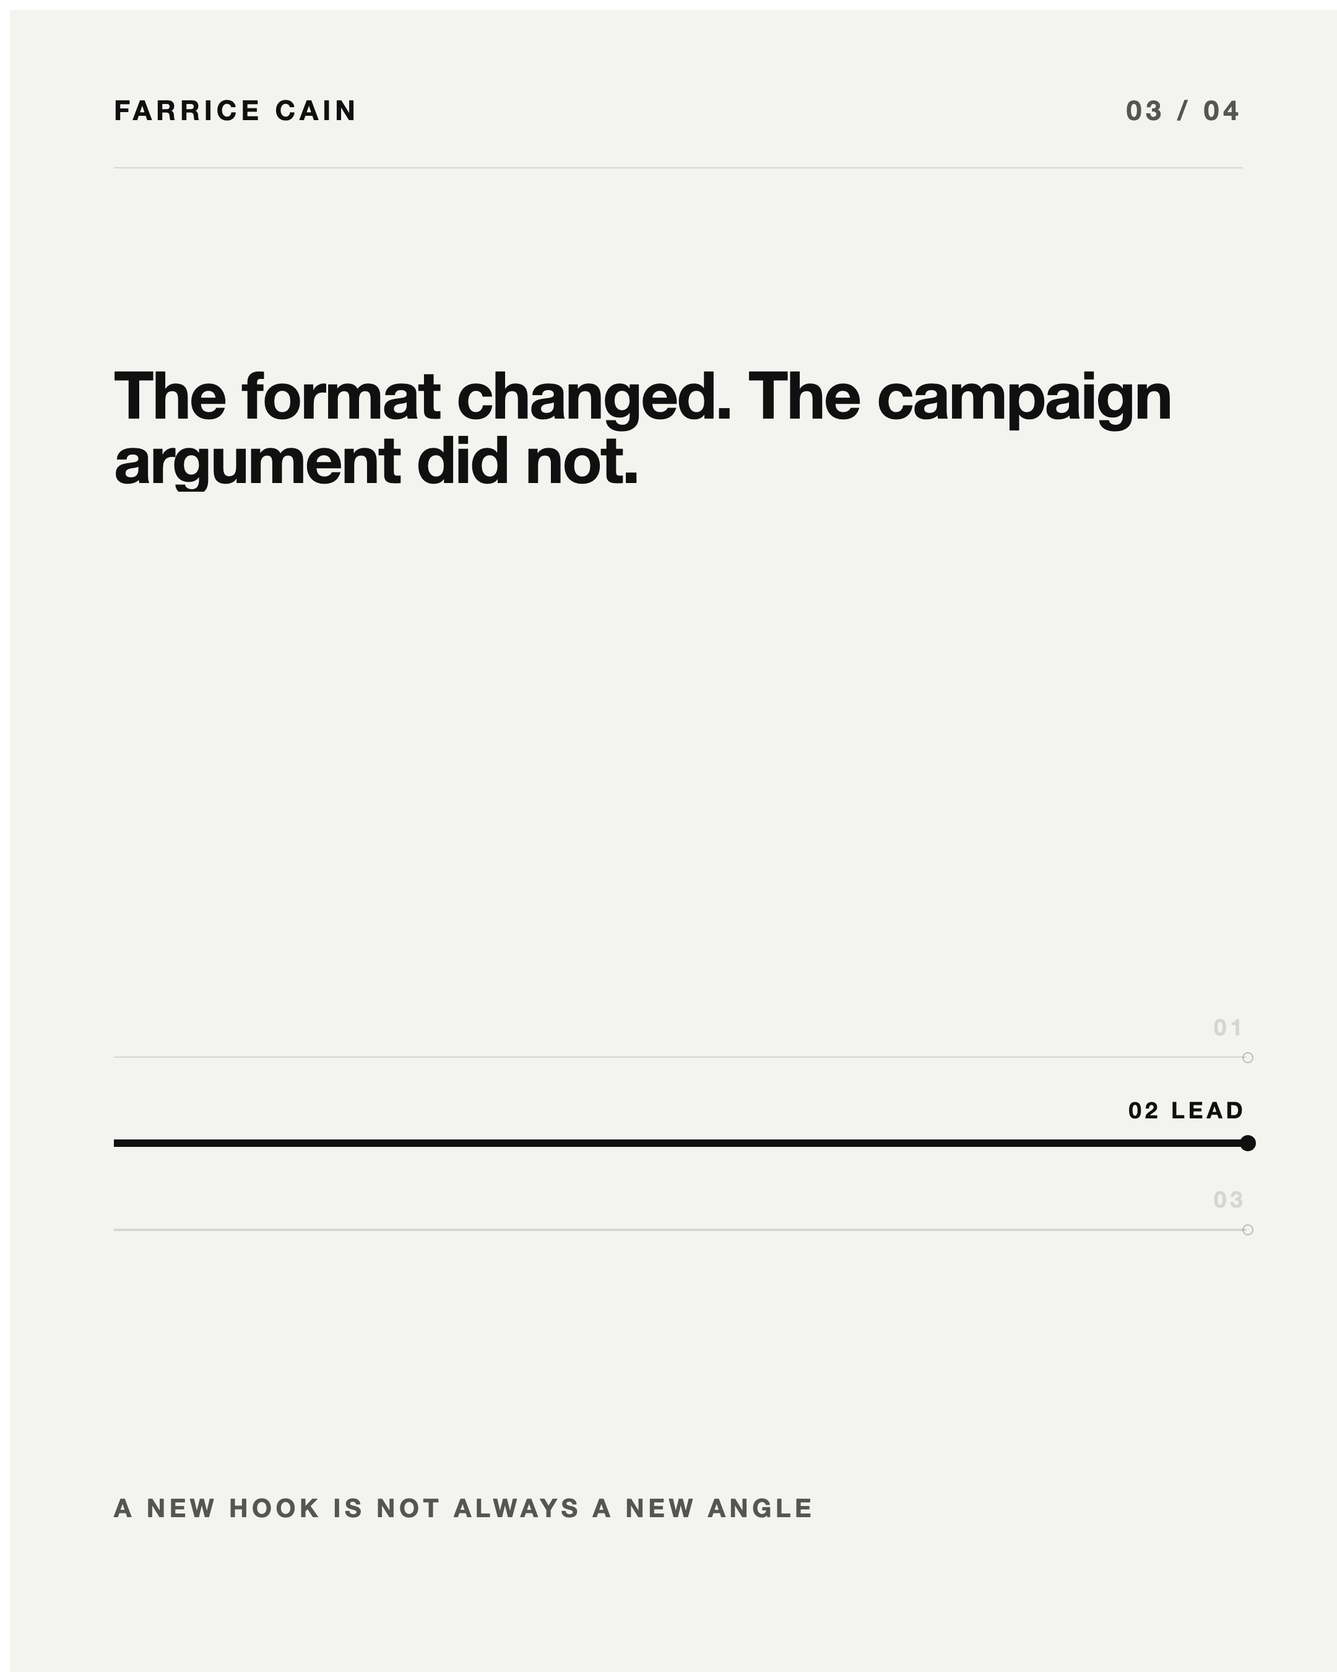
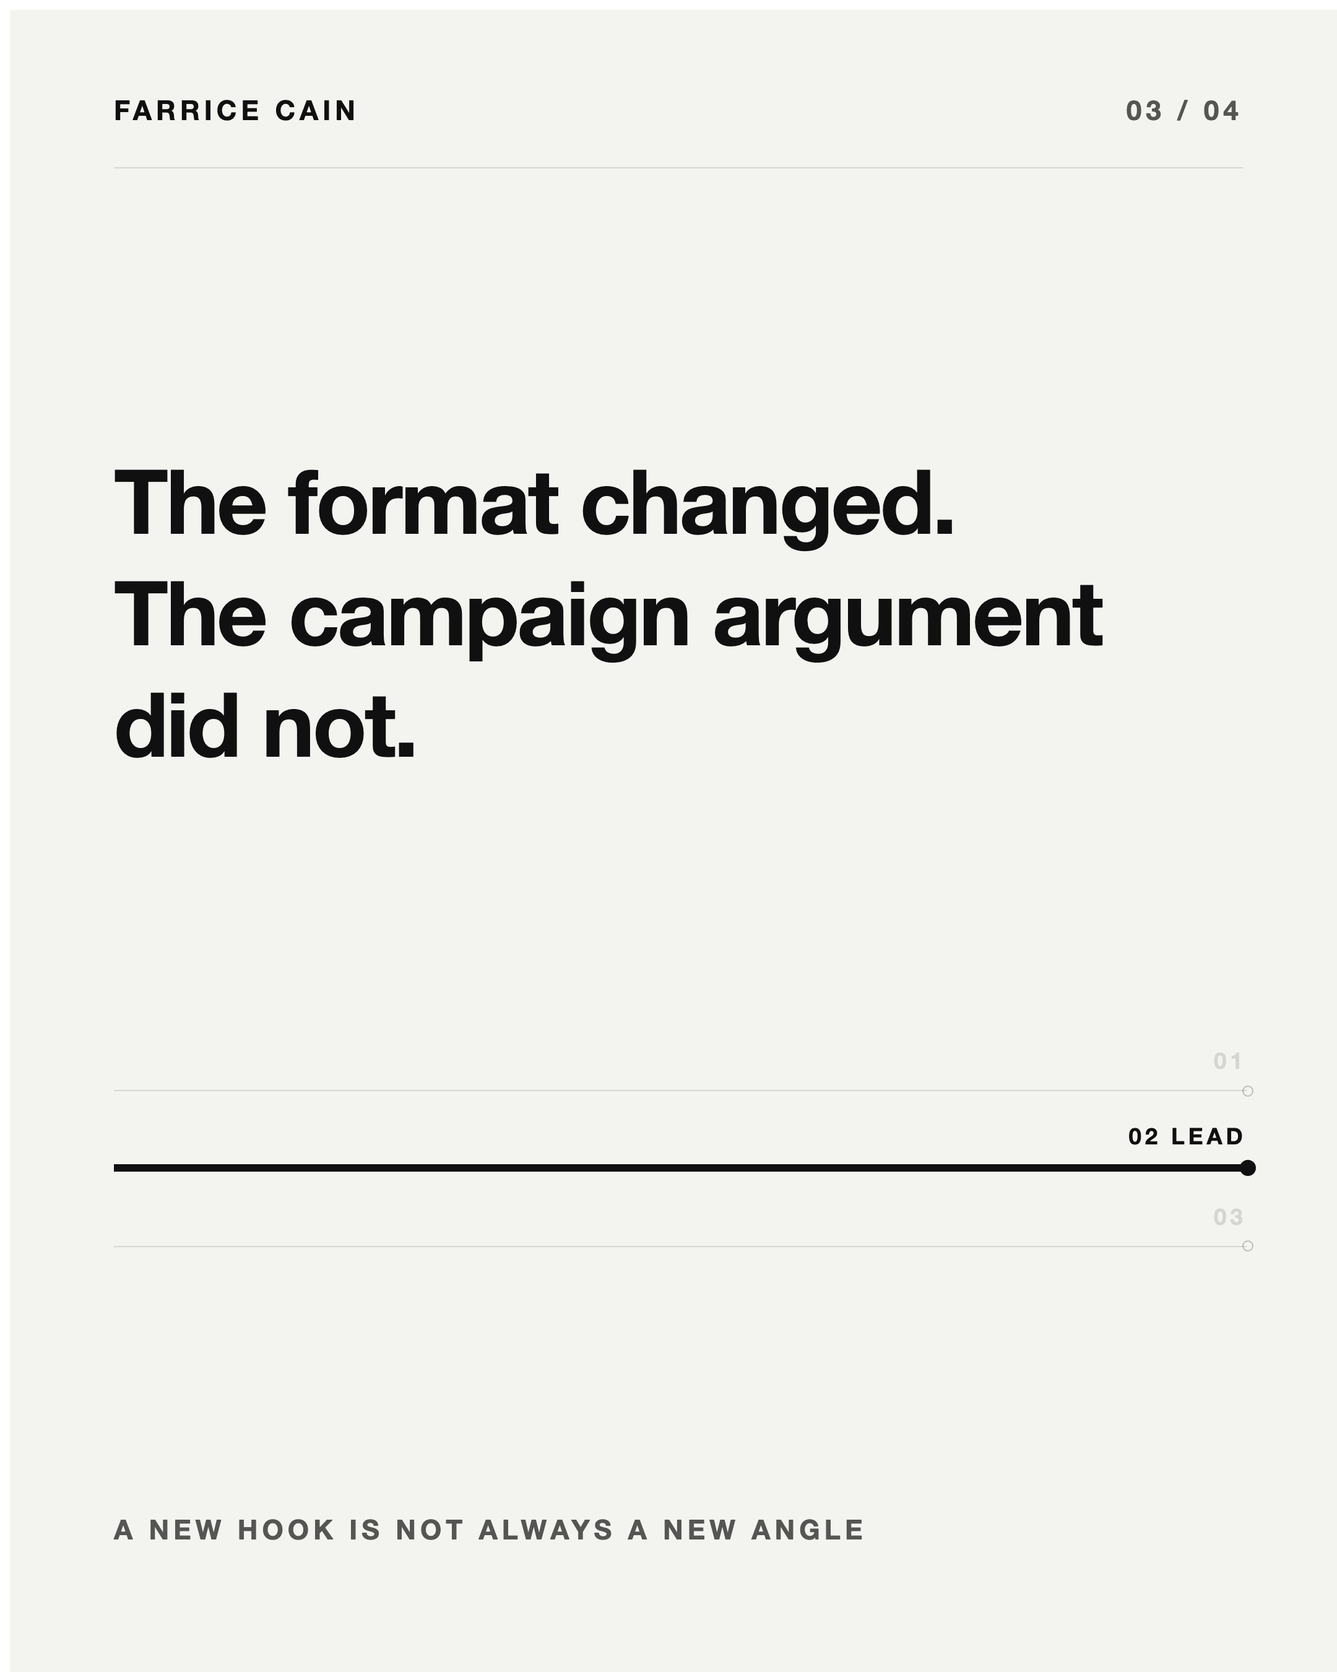
craft(templates): linkedin-carousel pool back to the brand h1 (72px) and ref rhythm per Farrice's Studio pass; REVIEW-NOTES; <br> rule in /social-carousel; learnings

Changed region(s): [[0.0931, 0.2178, 0.8995, 0.4667], [0.0931, 0.6222, 0.9616, 0.7467], [0.0931, 0.8711, 0.6514, 0.9333]]

diff --git a/brand_context/templates/linkedin-carousel/headline-subline-cover/template.html b/brand_context/templates/linkedin-carousel/headline-subline-cover/template.html
@@ -68,31 +68,34 @@
          zero once the ring can no longer reach it). Starting the zone at 29% (with a correspondingly
          empty band from ~11% to 29%) is the fix, not a composition choice — see rationale.md and the
          ladder note in instructions.md. -->
+    <!-- CRAFT PASS 2026-09-03 (Farrice: "tighten typography, spacing, hierarchy"): headline returned to
+         the brand's h1 (72px = 6.67cqw, the ref's own size), natural 2-3 line wrap, ref vertical rhythm
+         restored (subtitle 51%, heavy rule 85%, caption 90%). See ../REVIEW-NOTES.md. -->
     <div class="zone display" data-slot="HEADLINE" data-role="display"
-         style="left:7.78%; top:29%; width:84.44%; height:31%;
-                font-size:11.8cqw; font-weight:700; color:var(--brand-text-on-light, #101010);
-                line-height:1.05; letter-spacing:-0.03em; text-align:left;
+         style="left:7.78%; top:29.5%; width:84.44%; height:18%;
+                font-size:6.67cqw; font-weight:700; color:var(--brand-text-on-light, #101010);
+                line-height:1.05; letter-spacing:-0.025em; text-align:left;
                 overflow:hidden;">{{{HEADLINE}}}</div>
 
     <!-- SUBTITLE — subtitle scale, two lines, graphite. Positioned with a large gap below HEADLINE for
          the same ring-false-positive reason noted above (HEADLINE's own ring reaches down to ~78% given
          its height, so SUBTITLE must start clear of that). -->
     <div class="zone" data-slot="SUBTITLE"
-         style="left:7.78%; top:79%; width:62%; height:7%;
+         style="left:7.78%; top:51%; width:62%; height:7.5%;
                 font-family: var(--font-body, 'Helvetica Neue', Helvetica, Arial, sans-serif);
                 font-size:3.33cqw; font-weight:400; color:var(--brand-secondary, #555553);
                 line-height:1.3; letter-spacing:-0.01em; text-align:left;
                 overflow:hidden;">{{{SUBTITLE}}}</div>
 
     <!-- Bottom structural rule (decision-line move, heavier weight) -->
-    <div class="rule heavy" style="left:7.78%; top:91%; width:84.44%; height:2px;"></div>
+    <div class="rule heavy" style="left:7.78%; top:85.2%; width:84.44%; height:2px;"></div>
 
     <!-- FOOTER CAPTION — kicker/theme label. NOTE: at top:92.3%/height:2.2% this sits slightly below
          tokens.json's declared safe_area.bottom (108px/8% -> content should stay above 92%) — a small,
          known compromise (bottom edge ~94.5%) forced by the SUBTITLE/rule ring-clearance chain above.
          Flagged here for by-eye review; see rationale.md and instructions.md "Fixed elements". -->
     <div class="zone kicker-label" data-slot="CAPTION_FOOTER"
-         style="left:7.78%; top:92.3%; width:84.44%; height:2.2%;
+         style="left:7.78%; top:90.3%; width:84.44%; height:2.2%;
                 font-size:2.04cqw; line-height:1.0; text-align:left;">{{CAPTION_FOOTER}}</div>
 
   </div>

diff --git a/brand_context/templates/linkedin-carousel/statement-close-cta/template.html b/brand_context/templates/linkedin-carousel/statement-close-cta/template.html
@@ -39,7 +39,8 @@
     .headline {
       font-family: var(--brand-display, 'Helvetica Neue', Helvetica, Arial, sans-serif);
       font-weight: 700;
-      font-size: 9.6cqw;              /* type_scale.display 104px @ 1080 canvas ≈ 9.63cqw */
+      font-size: 6.67cqw;             /* CRAFT PASS 2026-09-03: brand h1 72px (the ref's size); was 9.6cqw — see ../REVIEW-NOTES.md */
+      line-height: 1.25;
       line-height: 1.0;
       letter-spacing: -0.025em;
       color: var(--brand-text-on-dark, #FAFAF8);
@@ -127,7 +128,7 @@
     .recommendation-name {
       font-family: var(--brand-display, 'Helvetica Neue', Helvetica, Arial, sans-serif);
       font-weight: 700;
-      font-size: 3.6cqw;
+      font-size: 2.6cqw;              /* CRAFT PASS 2026-09-03: ref "DM ANGLE" ≈ 28px; was 3.6cqw */
       letter-spacing: -0.01em;
       color: var(--brand-text-on-dark, #FAFAF8);
     }
@@ -152,12 +153,12 @@
          width-bound autosize more legal room without the rendered TEXT ever gluing to the
          true edge; only the box's invisible bound moves, not the visible margin. -->
     <div class="zone display headline" data-slot="HEADLINE"
-         style="left:8%; top:25%; width:90%; height:30%;
+         style="left:8%; top:26%; width:84%; height:26%;
                 display:flex; align-items:flex-start;
-                text-align:left; white-space:nowrap;">{{{HEADLINE}}}</div>
+                text-align:left;">{{{HEADLINE}}}</div>
 
     <!-- THREE-ROUTE GRAMMAR (brand move #4) -->
-    <div class="zone route-zone" data-slot="ROUTE_GRAMMAR" style="left:8%; top:61%; width:84%; height:12%;">
+    <div class="zone route-zone" data-slot="ROUTE_GRAMMAR" style="left:8%; top:63%; width:84%; height:12%;">
       <div class="route-row quiet">
         <div class="route-stroke"><span class="route-dot"></span></div>
         <span class="route-label" data-slot="ROUTE_01_LABEL">{{ROUTE_01_LABEL}}</span>
@@ -174,10 +175,10 @@
 
     <!-- FOOTER: functional caption + resolved recommendation name -->
     <div class="zone footer-caption" data-slot="FOOTER_CAPTION"
-         style="left:8%; top:85%; width:84%; height:3%;">{{FOOTER_CAPTION}}</div>
+         style="left:8%; top:86.9%; width:84%; height:3%;">{{FOOTER_CAPTION}}</div>
 
     <div class="zone recommendation-name" data-slot="RECOMMENDATION_NAME"
-         style="left:8%; top:89%; width:60%; height:5%;">{{{RECOMMENDATION_NAME}}}</div>
+         style="left:8%; top:91.6%; width:60%; height:4%;">{{{RECOMMENDATION_NAME}}}</div>
 
   </div>
 </body>

diff --git a/brand_context/templates/linkedin-carousel/kicker-stack-body/template.html b/brand_context/templates/linkedin-carousel/kicker-stack-body/template.html
@@ -36,8 +36,8 @@
 
     <!-- HEADLINE — the dominant idea: 2-4 line escalating display stack, bold ink, brand's only display face -->
     <div class="zone headline" data-slot="HEADLINE"
-         style="position:absolute; left:7.8%; top:25%; width:84.4%; max-height:42%; overflow:hidden;
-                font-size:11.3cqw; font-weight:700; line-height:1.05; letter-spacing:-0.025em;
+         style="position:absolute; left:7.8%; top:26%; width:84.4%; max-height:40%; overflow:hidden;
+                font-size:6.67cqw; font-weight:700; line-height:1.72; letter-spacing:-0.025em;
                 color: var(--brand-text-on-light); text-align:left;">{{{HEADLINE}}}</div>
 
     <!-- HAIRLINE RULE 2 — separates the headline cluster from the closing statement cluster -->
@@ -47,13 +47,13 @@
 
     <!-- KICKER 2 — introduces the closing statement -->
     <div class="zone kicker" data-slot="KICKER_2"
-         style="position:absolute; left:7.8%; top:73.5%; width:84.4%; height:3%;
+         style="position:absolute; left:7.8%; top:74.3%; width:84.4%; height:3%;
                 font-size:2cqw; font-weight:700; text-transform:uppercase; letter-spacing:0.16em;
                 color: var(--brand-secondary);">{{KICKER_2}}</div>
 
     <!-- STATEMENT — the closing line: regular weight, graphite, deliberate contrast to the bold headline -->
     <div class="zone statement" data-slot="STATEMENT"
-         style="position:absolute; left:7.8%; top:78%; width:84.4%; height:6%; overflow:hidden;
+         style="position:absolute; left:7.8%; top:80%; width:84.4%; height:6%; overflow:hidden;
                 font-family: var(--font-display, 'Helvetica Neue', Helvetica, Arial, sans-serif);
                 font-size:3.3cqw; font-weight:400; line-height:1.3; letter-spacing:-0.01em;
                 color: var(--brand-secondary); text-align:left;">{{{STATEMENT}}}</div>

diff --git a/brand_context/templates/linkedin-carousel/headline-marker-body/template.html b/brand_context/templates/linkedin-carousel/headline-marker-body/template.html
@@ -97,15 +97,15 @@
          breaks in the sample — natural wrap, so a long per-post value re-flows instead of
          overflowing width at display scale (Check D floor: measured ink-height >= 8cqw). -->
     <div class="zone display" data-slot="HEADLINE"
-         style="left:7.78%; top:21%; width:92%;
+         style="left:7.78%; top:26%; width:84.44%;
                 font-weight: 700;
-                font-size: 9.8cqw;
+                font-size: 6.67cqw; line-height: 1.25;
                 color: var(--brand-text-on-light);
                 text-align: left;">{{{HEADLINE}}}</div>
 
     <!-- ROUTE / TRACK MARKER — 3-row diagram, one bold LEAD row (fixed structure), labels are slots -->
     <div class="zone"
-         style="left:7.78%; top:60%; width:84.7%; height:13%;
+         style="left:7.78%; top:62%; width:84.7%; height:12%;
                 display:flex; flex-direction:column; justify-content:space-between;">
 
       <div class="route-row">
@@ -135,8 +135,8 @@
 
     <!-- FOOTER CAPTION -->
     <div class="zone caption-label" data-slot="FOOTER_CAPTION"
-         style="left:7.78%; top:88.7%; width:60%;
-                font-size:1.9cqw;
+         style="left:7.78%; top:89.9%; width:60%;
+                font-size:2.04cqw;
                 color: var(--brand-secondary);
                 text-align: left;">{{FOOTER_CAPTION}}</div>
   </div>

diff --git a/brand_context/templates/linkedin-carousel/REVIEW-NOTES.md b/brand_context/templates/linkedin-carousel/REVIEW-NOTES.md
@@ -1,0 +1,18 @@
+# linkedin-carousel pool — review notes (ours; LIVING)
+
+Farrice's verdicts on the pool, in his words, and what was done about each. The Scrapes Template Studio keeps pins in `comments.json`; this file keeps the decisions.
+
+## 2026-09-03 — first Studio pass (Farrice)
+> "It's pretty cool… the typography, spacing, and a few other things were done poorly on some of them. We just need to tighten that up and fix the composition and hierarchy."
+
+Diagnosis (verified in the template sources): the builders' automatic gate demands a display cap-height ≥ 8.0cqw. The brand's own h1 is 72px (6.67cqw) and its largest display token 104px (9.63cqw). To pass the gate the builders scaled headlines to 104–127px and then pushed subtitles, rules, and captions down the canvas to dodge a ring-probe false positive in the overflow check. Result: oversized headlines, dead bands, hierarchy flattened. The refs (his own Premium Minimal frames) are the brand truth.
+
+Craft pass (in-pool CSS only, canonical re-render via `render_template.py`, no AI, $0):
+- every HEADLINE → 6.67cqw (72px, brand h1), letter-spacing −0.025em, line-height per ref (cover 1.05 · kicker stack 1.72 · marker body 1.25 · CTA 1.25); width back to the 84.44% content column; `white-space:nowrap` removed on the CTA (it ran the first line into the right edge)
+- vertical composition restored to the ref: cover subtitle 51%, heavy rule 85.2%, footer caption 90.3% · kicker stack statement 80.5% · marker routes 62–74%, footer 89.9% · CTA routes 63–75%, footer 86.9%, recommendation name 91.6% at 2.6cqw
+- fixed chrome (masthead, field index, hairline) untouched
+
+Open: the Scrapes builder gate will re-flag these templates if a builder is ever re-spawned on them (Check D floor). That gate is theirs; we never edit inside `.claude/skills/`. Content-time rendering does not re-run it.
+
+## How to leave notes next time
+Template Studio → top bar → **Comment** pill (toggles comment mode) → click the slide where the note belongs → type. Pins land in `comments.json` next to this file; say "read my Studio comments" and they get pulled into the next pass.

diff --git a/context/learnings.md b/context/learnings.md
@@ -17,7 +17,7 @@
 - 2026-09-02 · all · brand lock · every run resolves the brand through `execution/scrapes_brand.py` first and echoes the BRAND LOCK line into pipeline-log.md; ambiguity asks, never guesses · verdict: ratified by Farrice
 
 ## 00-social-content
-- 2026-09-03 · farrice · template pool linkedin-carousel · 4 refs (Premium Minimal frames) → 4 templates, all `solid-css` pure HTML, $0 GPT Image. Builders fought Check D's absolute 8.0cqw display floor (the brand's restrained h1 is ~6.7cqw): headlines scaled up 40–60% vs refs; `compare_render_to_ref.py` ring probe throws false OVERFLOW on tight typographic layouts; Check B keyword heuristic trips on negated prose ("no AI image"). Keep: pure-HTML route for typographic brands. Change: expect the display-floor escalation and judge it by eye in the Studio · verdict: pending Farrice (Template Studio)
+- 2026-09-03 · farrice · template pool linkedin-carousel · 4 refs (Premium Minimal frames) → 4 templates, all `solid-css` pure HTML, $0 GPT Image. Builders fought Check D's absolute 8.0cqw display floor (the brand's restrained h1 is ~6.7cqw): headlines scaled up 40–60% vs refs; `compare_render_to_ref.py` ring probe throws false OVERFLOW on tight typographic layouts; Check B keyword heuristic trips on negated prose ("no AI image"). Keep: pure-HTML route for typographic brands. Change: expect the display-floor escalation and judge it by eye in the Studio · verdict: Farrice 2026-09-03 "typography, spacing, hierarchy done poorly on some" → craft pass back to the refs' 72px h1 and ref positions (pool REVIEW-NOTES.md). For typographic brands: treat the builder's Check D floor as a known distortion and plan the post-build craft pass as a standard step
 - 2026-09-02 · jen · still-renting v1 · hook written from the Scrapes first-slide formulas alone read 6/10; v2 with Alyssa placement + Luke grip is the take to judge. Formulas = shape check, not the pen · verdict: v2 pending Farrice
 
 ## str-trending-research

diff --git a/.agent/workflows/social-carousel.md b/.agent/workflows/social-carousel.md
@@ -24,7 +24,7 @@ State the scale in one line before starting: one carousel, N slides (3–7), one
 
 ## Step 2 — CRAFT ROOM (one integrator writes, one veto)
 1. Hook pen per BRAND.yaml `pens.hook`: client → `.agent/workflows/alyssa-stalker-hook-reframe.md` (Topic + Who + Lens placement) then `/vicious-hook` (Luke Iha: consequence first, open loop, Germanic words, stakes). Farrice → VOICE-CARD dial + `/vicious-hook`. The Scrapes first-slide formulas (`.claude/skills/00-social-content/references/carousel-first-slide-copywriting.md`) are the SHAPE CHECK on the final hook, never the pen.
-2. Integrator per `pens.integrator` writes ONE take: the caption (narrative → facts → door → attribution for Jen; VOICE-CARD register for Farrice) and a slide script — for each slide `SLIDE n | role | headline (≤8 words) | body (≤40 words) | image concept`. Cover hook = the chosen hook, verbatim.
+2. Integrator per `pens.integrator` writes ONE take: the caption (narrative → facts → door → attribution for Jen; VOICE-CARD register for Farrice) and a slide script — for each slide `SLIDE n | role | headline (≤8 words) | body (≤40 words) | image concept`. Cover hook = the chosen hook, verbatim. **Headlines carry their line breaks as `<br>`** (one thought per line, as the brand's frames do): the Scrapes renderer's autosize shrinks any headline that must wrap on its own, so a broken headline keeps the brand's 72px while an unbroken one collapses to 37px (evidenced 2026-09-03).
 3. Veto seat per `pens.veto`: the brand-as-itself read. One pass. Two rejected takes → stop and go back to the input (spiral brake), never a third variant.
 4. Machine floor, all must pass before hand-off:
    - `python3 execution/claim_audit.py check <caption+script file> --strict` (tags present, UNCONFIRMED density ≤30%). Fails → fix facts or cut the claim.

diff --git a/brand_context/templates/linkedin-carousel/headline-subline-cover/instructions.md b/brand_context/templates/linkedin-carousel/headline-subline-cover/instructions.md
@@ -134,7 +134,7 @@ generation_route: none — solid-css scenario, no `[ai-image-zone]` block. The b
     largest `type_scale.display` token (104px/9.63cqw)**, and positioned unusually low on the canvas — see
     the `elements.headline` note above and `rationale.md`; this is a Check-D-driven ladder escalation +
     its ring-false-positive knock-on fix, not a re-read of the ref.
-  - sample: "Another creative<br>round is easy<br>to approve."
+  - sample: "Another creative round<br>is easy to approve."
   - max_chars: ~12-16 per `<br>`-separated segment at this font-size (the autosize net will shrink toward
     its floor if a segment is longer — keep segments short and let the composition read as a stacked
     poster line rather than prose-wrapped paragraphs)
@@ -202,3 +202,6 @@ clean or WARN-only) — they are by-eye judgment calls surfaced for the human re
 - Allow the masthead descriptor slot (tokens `chrome.masthead.labels[2]`) to appear as a third, smaller
   line if a future variant wants the full three-slot masthead instead of the compact label+index row this ref shows.
 - Offer mode label swap (`THE ANGLE MAP` / author `FARRICE CAIN`) per `tokens.json → chrome.masthead.offer_mode_labels`.
+
+## Craft pass 2026-09-03 (Farrice)
+Headline returned to the brand h1 (72px = 6.67cqw, the ref size), ref vertical rhythm restored, re-rendered via render_template.py (no AI). Sizes/bboxes above and in _measurements.yaml describe the ORIGINAL build. Headline values must carry explicit <br> line breaks: the renderer autosize shrinks any natural wrap. Decisions: ../REVIEW-NOTES.md

diff --git a/brand_context/templates/linkedin-carousel/headline-marker-body/instructions.md b/brand_context/templates/linkedin-carousel/headline-marker-body/instructions.md
@@ -108,7 +108,7 @@ content bands). No `ref_input`, no per-post image variables — nothing in this 
     natural wrap (no manual `<br>` in the sample — the display scale needed to clear the 8cqw display-height
     floor wraps a full-sentence headline to more, shorter lines than the ref's exact 3-line break; supports
     `<br>` if a future value wants a deliberate break)
-  - sample: "The format changed. The campaign argument did not."
+  - sample: "The format changed.<br>The campaign argument<br>did not."
   - user_editable: true
   - max_chars: ~70 (auto-shrinks toward the 8cqw floor if longer)
 
@@ -146,3 +146,6 @@ content bands). No `ref_input`, no per-post image variables — nothing in this 
   Fixed structure; only its labels are slots.
 - Flat `var(--brand-bg-light)` background — not slot-editable, no AI generation.
 - `data-surface="light"` on the slide root.
+
+## Craft pass 2026-09-03 (Farrice)
+Headline returned to the brand h1 (72px = 6.67cqw, the ref size), ref vertical rhythm restored, re-rendered via render_template.py (no AI). Sizes/bboxes above and in _measurements.yaml describe the ORIGINAL build. Headline values must carry explicit <br> line breaks: the renderer autosize shrinks any natural wrap. Decisions: ../REVIEW-NOTES.md

diff --git a/brand_context/templates/linkedin-carousel/kicker-stack-body/instructions.md b/brand_context/templates/linkedin-carousel/kicker-stack-body/instructions.md
@@ -164,3 +164,6 @@ No `[ai-image-zone]` block — `edit_mode: none` per `rationale.md` §③. The b
 - Allow the headline stack to run 2 or 4 lines instead of the sampled 3 (the slot already supports `<br>`
   freely; the auto-shrink fit mechanic handles the extra/fewer lines).
 - Allow `STATEMENT` to carry an `<mark>` accent word for a body variant that wants one emphasized term.
+
+## Craft pass 2026-09-03 (Farrice)
+Headline returned to the brand h1 (72px = 6.67cqw, the ref size), ref vertical rhythm restored, re-rendered via render_template.py (no AI). Sizes/bboxes above and in _measurements.yaml describe the ORIGINAL build. Headline values must carry explicit <br> line breaks: the renderer autosize shrinks any natural wrap. Decisions: ../REVIEW-NOTES.md

diff --git a/brand_context/templates/linkedin-carousel/statement-close-cta/instructions.md b/brand_context/templates/linkedin-carousel/statement-close-cta/instructions.md
@@ -172,3 +172,6 @@ ref_input: n/a — no `[ai-image-zone]` block; the entire slide is CSS/HTML per 
   differently (e.g. lettered A/B/C).
 - Allow the recommended-route row's ordinal position (top/middle/bottom of the 3) to vary if the lead
   angle isn't always the middle option.
+
+## Craft pass 2026-09-03 (Farrice)
+Headline returned to the brand h1 (72px = 6.67cqw, the ref size), ref vertical rhythm restored, re-rendered via render_template.py (no AI). Sizes/bboxes above and in _measurements.yaml describe the ORIGINAL build. Headline values must carry explicit <br> line breaks: the renderer autosize shrinks any natural wrap. Decisions: ../REVIEW-NOTES.md
